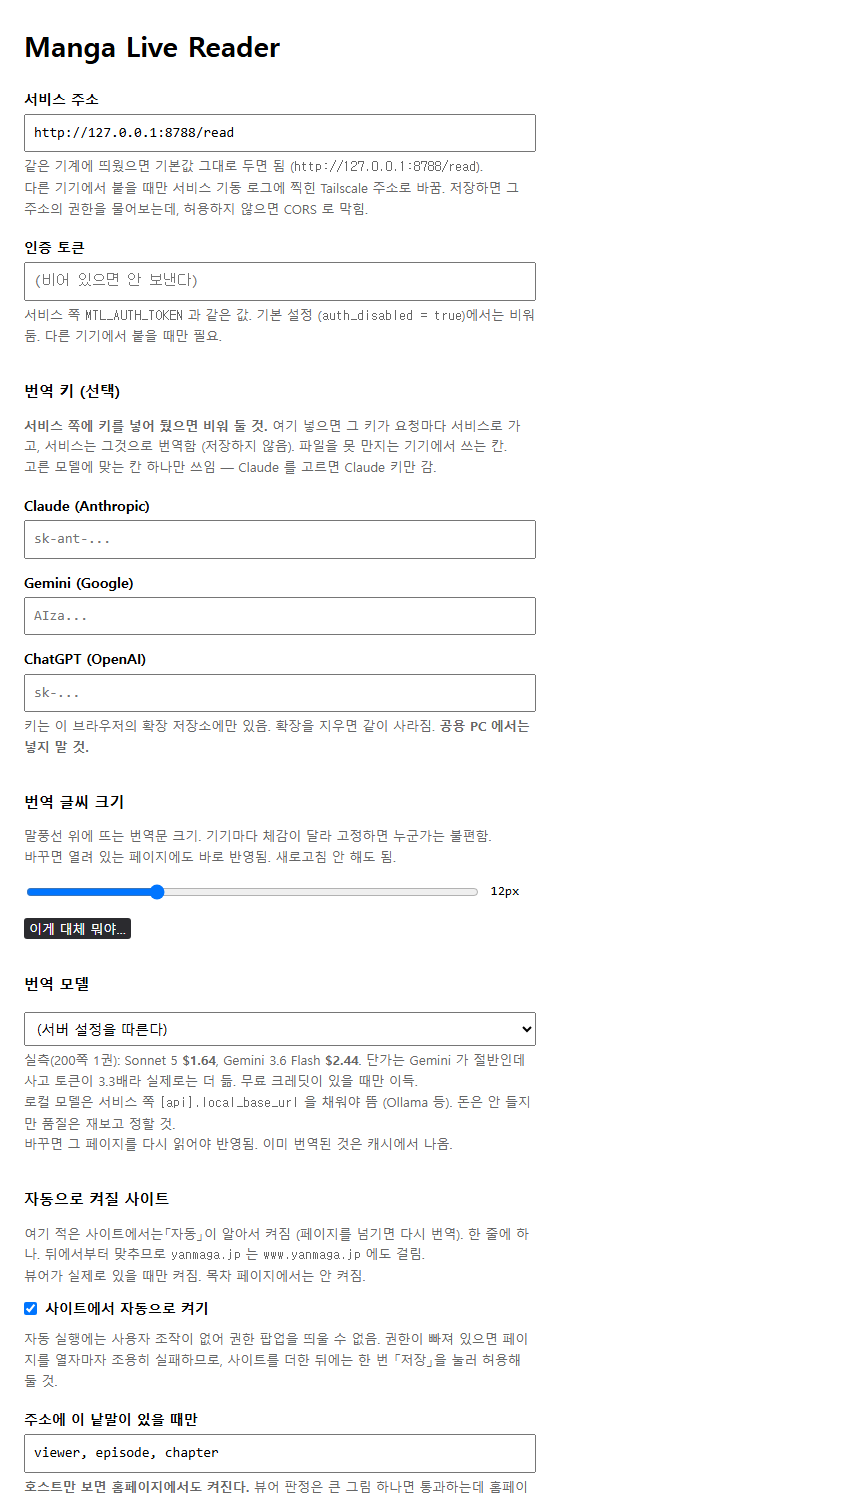
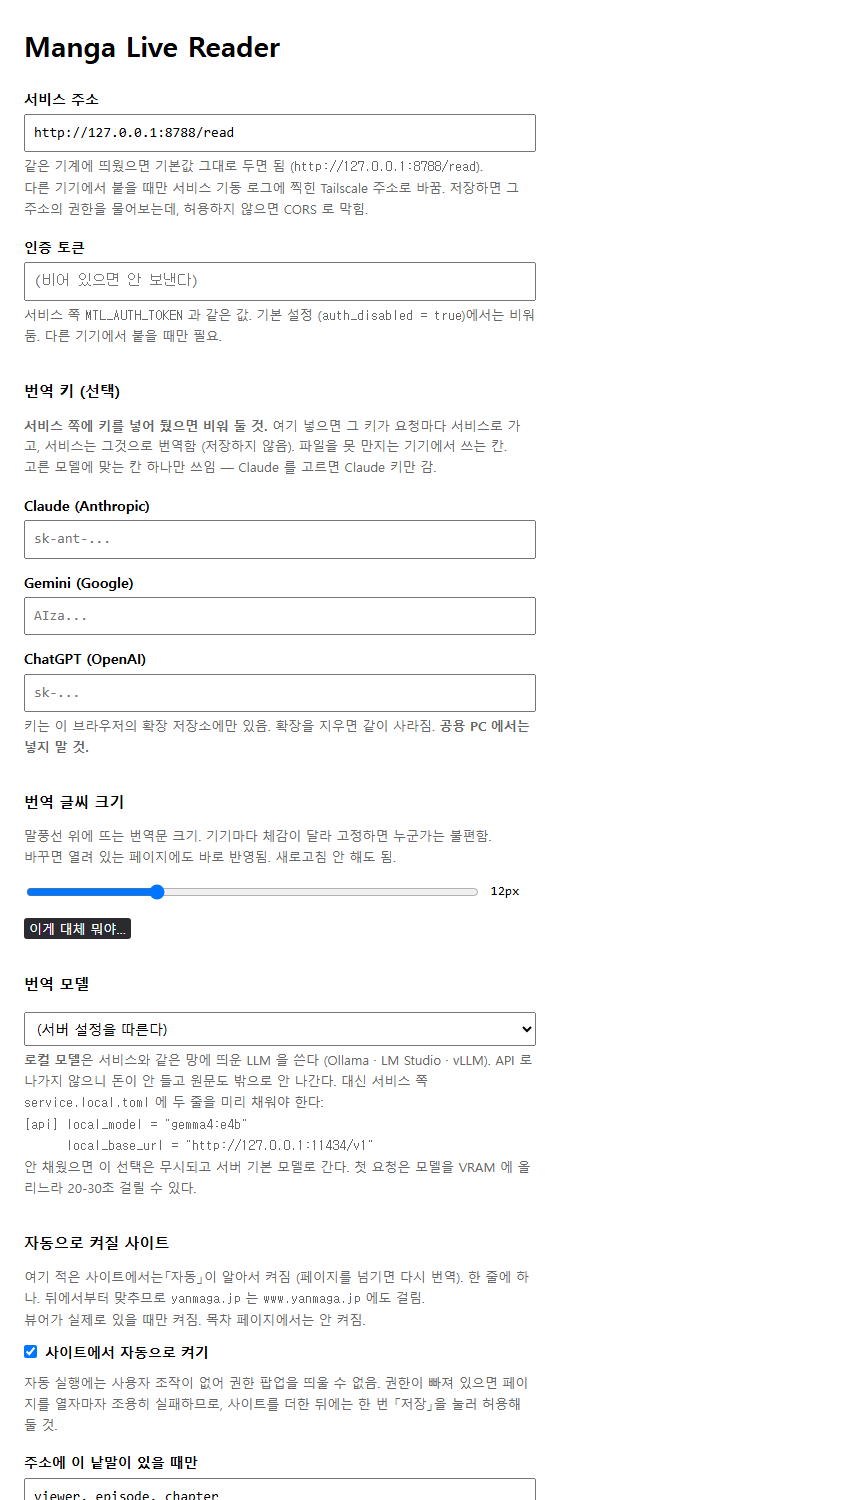
옵션 화면의 모델 설명을 고친다 — 비용표를 빼고 로컬 모델을 제대로 적는다
비용 비교는 README 에 있는데 옵션 화면에도 겹쳐 적혀 있었다. 뺐다.

「로컬 모델」은 한 줄로는 알 수 없었다. 무엇을 쓰는지(같은 망에 띄운 LLM),
왜 좋은지(돈 안 듦, 원문이 밖으로 안 나감), 무엇을 먼저 해야 하는지
(service.local.toml 두 줄), 안 했을 때 어떻게 되는지(무시하고 서버 기본 모델),
첫 요청이 느린 이유(VRAM 적재)를 적었다.

Changed region(s): [[0.0302, 0.7053, 0.6349, 1.0], [0.5442, 0.7667, 0.6047, 0.8587]]

diff --git a/extension/options.html b/extension/options.html
@@ -80,15 +80,17 @@
   <option value="claude-sonnet-5">Claude Sonnet 5 — 품질·비용 균형</option>
   <option value="claude-opus-5">Claude Opus 5 — 가장 좋지만 비싸다</option>
   <option value="claude-haiku-4-5">Claude Haiku 4.5 — 가장 싸다</option>
-  <option value="gpt-5.2">ChatGPT (GPT-5.2) — 미검증</option>
-  <option value="local">로컬 모델 — 서비스의 [api].local_model 을 따름 (돈 안 듦)</option>
+  <option value="gpt-5.2">ChatGPT (GPT-5.2)</option>
+  <option value="local">로컬 모델 (내 서버에서 도는 것, 무료)</option>
 </select>
 <p class="hint">
-  실측(200쪽 1권): Sonnet 5 <b>$1.64</b>, Gemini 3.6 Flash <b>$2.44</b>. 단가는 Gemini 가
-  절반인데 사고 토큰이 3.3배라 실제로는 더 듦. 무료 크레딧이 있을 때만 이득.
-  <br />로컬 모델은 서비스 쪽 <code>[api].local_base_url</code> 을 채워야 뜸 (Ollama 등).
-  돈은 안 들지만 품질은 재보고 정할 것.
-  <br />바꾸면 그 페이지를 다시 읽어야 반영됨. 이미 번역된 것은 캐시에서 나옴.
+  <b>로컬 모델</b>은 서비스와 같은 망에 띄운 LLM 을 쓴다 (Ollama · LM Studio · vLLM).
+  API 로 나가지 않으니 돈이 안 들고 원문도 밖으로 안 나간다. 대신 서비스 쪽
+  <code>service.local.toml</code> 에 두 줄을 미리 채워야 한다:
+  <br /><code>[api] local_model = "gemma4:e4b"</code>
+  <br /><code>&nbsp;&nbsp;&nbsp;&nbsp;&nbsp;&nbsp;local_base_url = "http://127.0.0.1:11434/v1"</code>
+  <br />안 채웠으면 이 선택은 무시되고 서버 기본 모델로 간다. 첫 요청은 모델을
+  VRAM 에 올리느라 20-30초 걸릴 수 있다.
 </p>
 
 <h2 style="margin-top:32px;font-size:15px">자동으로 켜질 사이트</h2>
